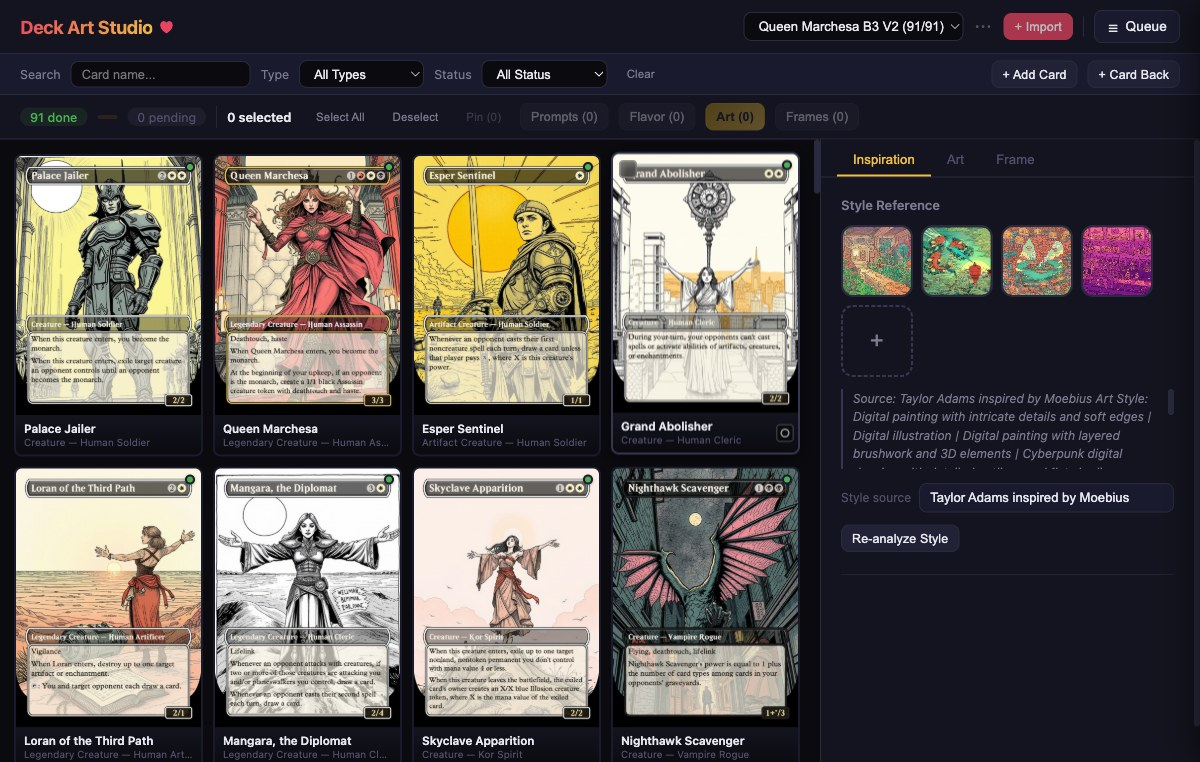
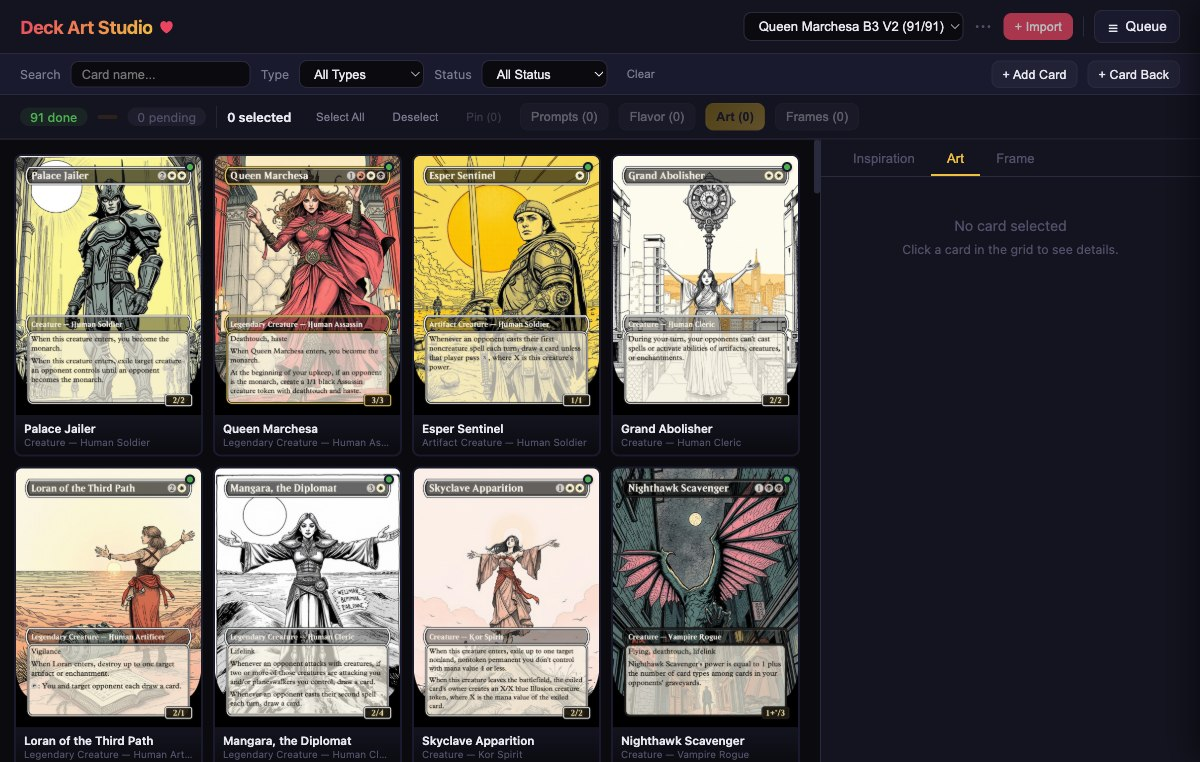
docs: redact reference-artist name; replace two anatomy-flawed gallery cards
- Hero screenshot retaken with the side panel idle — the style-source
  field and analysis preview no longer expose the reference artist
- KANBAN validation note de-named to match
- Akroma's Will (finger defects) swapped for Chaos Warp; Boros Charm
  (blade-grip hands) swapped for Supreme Verdict after a full-size
  anatomy re-audit of every featured card with visible hands

Claude-Session: https://claude.ai/code/session_01CL91K3Fs5QZTnbko5qqosT

diff --git a/KANBAN.md b/KANBAN.md
@@ -113,7 +113,7 @@
   - Franchise names never reach model-facing prompts — de-named genre phrases at use time (pure function, no deck migration; artist names pass through). Fixes literal show characters in card art.
   - Deterministic distillation: canonical descriptor ordering (token-prefix ranked) + keyword-mapped medium floor — every Re-analyze leads with the medium.
   - Procedural style block: deterministic foundation (classified medium anchors incl. fine-vs-bold line detection + palette from stored per-image Colors analyses); pooled VLM enrichment can add, never subtract. Two independent live re-analyzes produced byte-identical blocks.
-  - Validation: both validation decks (Rick & Morty franchise, Moebius fine-line) render on-style from cold re-analyzes; 363 tests green.
+  - Validation: both validation decks (cartoon franchise, fine-line ink) render on-style from cold re-analyzes; 363 tests green.
 
 
 - [x] BUG: Franchise characters leak into card art via flavor text | Priority: P1 | Completed: 2026-07-13 | Owner: drew-valentine
